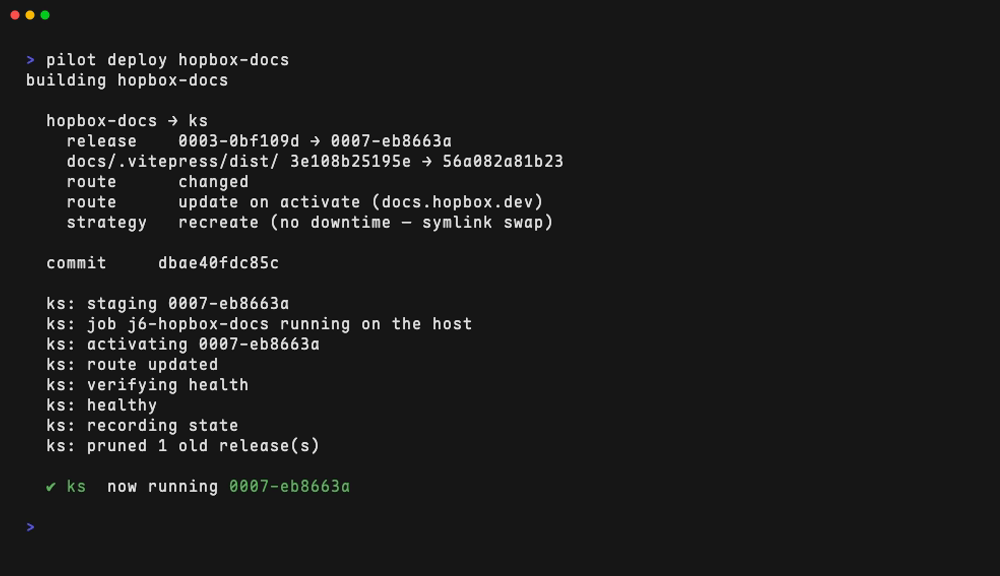
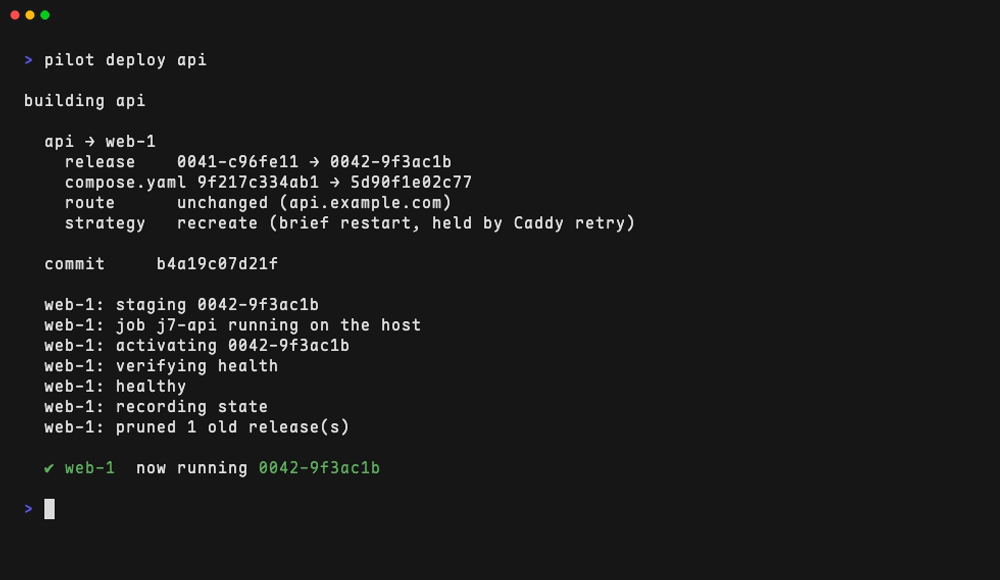
docs(readme): captures from the example fleet, not the operator's
The screenshots photographed the real fleet this project deploys
itself with — one operator's hostnames and domains on the project's
front page. They are now rendered by Pilot's own terminal renderer fed
with the example fleet's vocabulary: docs/readme/demo drives the same
render package the CLI uses, the module compiles it so a capture
cannot drift from the real output shapes, and the tapes alias `pilot`
to it so the typed commands read naturally. The live-TUI gif had no
equivalent without a live fleet and is dropped.

Also from review: a proper logo (Lucide's paper plane, ISC) above the
title, and the brew one-liner promoted into the header where it can be
seen.

diff --git a/docs/readme/demo/main.go b/docs/readme/demo/main.go
@@ -1,0 +1,127 @@
+// Command demo prints the README's terminal captures.
+//
+// The screenshots in the README used to be taken against the real fleet this
+// project deploys itself with, which put one operator's hostnames and domains
+// on the project's front page. This program renders the same output through
+// Pilot's actual terminal renderer — the render package the CLI itself uses —
+// fed with the example fleet's vocabulary, so a capture is pixel-faithful to
+// what Pilot prints without photographing anyone's infrastructure.
+//
+// The vhs tapes alongside alias `pilot` to `go run ./docs/readme/demo`, so the
+// typed command in each capture reads naturally. Being part of the module,
+// this breaks the build the moment a renderer's signature changes — a capture
+// can go stale, but it cannot quietly start lying about shapes.
+package main
+
+import (
+	"fmt"
+	"os"
+
+	"github.com/Gandalf-Le-Dev/pilot/internal/config"
+	"github.com/Gandalf-Le-Dev/pilot/internal/deploy"
+	"github.com/Gandalf-Le-Dev/pilot/internal/doctor"
+	"github.com/Gandalf-Le-Dev/pilot/internal/render"
+)
+
+func main() {
+	// Extra arguments are accepted and ignored so the tapes can type the
+	// command an operator would actually run — `pilot deploy api`.
+	if len(os.Args) < 2 {
+		fmt.Fprintln(os.Stderr, "usage: demo status|doctor|deploy [args ignored]")
+		os.Exit(2)
+	}
+
+	w := os.Stdout
+	fmt.Fprintln(w)
+
+	switch os.Args[1] {
+	case "status":
+		render.Status(w, statusRows())
+	case "doctor":
+		render.Doctor(w, doctorReport(), []string{"web-1", "web-2", "box-1"})
+	case "deploy":
+		printDeploy()
+	default:
+		fmt.Fprintf(os.Stderr, "unknown capture %q\n", os.Args[1])
+		os.Exit(2)
+	}
+
+	fmt.Fprintln(w)
+}
+
+func statusRows() []render.StatusRow {
+	return []render.StatusRow{
+		{Service: "api", Host: "web-1", State: "running", Release: "0042-9f3ac1b"},
+		{Service: "api", Host: "web-2", State: "running", Release: "0042-9f3ac1b"},
+		{Service: "backup", Host: "web-1", State: "running", Release: "0019-8eec9e0", Detail: "next Fri 00:23 UTC"},
+		{Service: "db", Host: "web-1", State: "running", Release: "0007-1fe22a1", Detail: "observe only"},
+		{Service: "objects", Host: "box-1", State: "running", Release: "0031-4c00e8d"},
+		{Service: "site", Host: "web-1", State: "running", Release: "0040-b52ffa1"},
+		{Service: "site", Host: "web-2", State: "running", Release: "0040-b52ffa1"},
+	}
+}
+
+func doctorReport() *doctor.Report {
+	ok := func(scope doctor.Scope, host, title, detail string) doctor.Finding {
+		return doctor.Finding{Status: doctor.StatusOK, Scope: scope, Host: host, Title: title, Detail: detail}
+	}
+	return &doctor.Report{Findings: []doctor.Finding{
+		ok(doctor.ScopeConfig, "", "fleet.yaml valid (3 hosts, 5 services)", ""),
+
+		ok(doctor.ScopeHost, "web-1", "docker available", ""),
+		ok(doctor.ScopeHost, "web-1", "agent 0.11.2 (protocol 8)", ""),
+		ok(doctor.ScopeHost, "web-1", "/etc/caddy/Caddyfile imports pilot.d/*.caddy", ""),
+		ok(doctor.ScopeHost, "web-1", "disk 34% used", ""),
+
+		ok(doctor.ScopeEdge, "", "api.example.com", "→ web-1, web-2  DNS ok  TLS valid 71d"),
+		ok(doctor.ScopeEdge, "", "example.com", "→ web-1, web-2  DNS ok  TLS valid 84d"),
+		{Status: doctor.StatusWarn, Scope: doctor.ScopeEdge, Title: "www.example.com",
+			Detail: "→ web-1, web-2  DNS ok  TLS valid 9d (renewal window)"},
+		ok(doctor.ScopeEdge, "", "objects.example.com", "→ box-1  DNS ok  TLS valid 89d"),
+	}}
+}
+
+func printDeploy() {
+	w := os.Stdout
+	svc := &config.Service{
+		Name:    "api",
+		Runtime: config.RuntimeCompose,
+		Hosts:   []string{"web-1"},
+		Expose:  &config.Expose{Domains: []string{"api.example.com"}, Upstream: 8080},
+	}
+	plan := &deploy.Plan{
+		Service: svc,
+		Release: "0042-9f3ac1b",
+		Commit:  "b4a19c07d21f",
+		Hosts: []deploy.HostPlan{{
+			Host: "web-1", From: "0041-c96fe11", To: "0042-9f3ac1b",
+			Route: deploy.RouteNone,
+			Changes: []deploy.Change{
+				{Field: "compose.yaml", From: "9f217c334ab1", To: "5d90f1e02c77"},
+			},
+		}},
+	}
+
+	fmt.Fprintln(w, "building api")
+	fmt.Fprintln(w)
+	render.Plan(w, plan)
+	fmt.Fprintln(w)
+
+	// The event stream a deploy prints while the host's agent works the job.
+	// Mirrored from the phases the agent reports; if the phrasing changes,
+	// re-run a real deploy and update these lines to match.
+	for _, line := range []string{
+		"staging 0042-9f3ac1b",
+		"job j7-api running on the host",
+		"activating 0042-9f3ac1b",
+		"verifying health",
+		"healthy",
+		"recording state",
+		"pruned 1 old release(s)",
+	} {
+		fmt.Fprintf(w, "  web-1: %s\n", line)
+	}
+	fmt.Fprintln(w)
+
+	render.Outcomes(w, []deploy.Outcome{{Host: "web-1", Succeeded: true, Release: "0042-9f3ac1b"}})
+}

diff --git a/README.md b/README.md
@@ -1,5 +1,7 @@
 <div align="center">
 
+<img src="docs/readme/logo.svg" width="88" alt="">
+
 # Pilot
 
 **A single-operator control plane for a small fleet of servers.**
@@ -11,17 +13,15 @@ systemd units, and static sites — with Caddy as the front door.
 [![CI](https://github.com/Gandalf-Le-Dev/pilot/actions/workflows/ci.yml/badge.svg)](https://github.com/Gandalf-Le-Dev/pilot/actions/workflows/ci.yml)
 [![License](https://img.shields.io/github/license/Gandalf-Le-Dev/pilot?color=8a8f98)](LICENSE)
 
-<img src="docs/readme/deploy.png" alt="pilot deploy: staging, activating, route update, health verification, and the release going live" width="760">
+### `brew install Gandalf-Le-Dev/tap/pilot`
+
+<img src="docs/readme/deploy.png" alt="pilot deploy: the plan, staging, activation, route update, health verification, and the release going live" width="760">
 
 </div>
 
 Pilot is a CLI (`pilot`) plus a per-host agent (`pilotd`). Deploys are pushed
 over SSH; the agent owns everything after the commit point, so closing your
 laptop mid-deploy cannot leave a service activated with nobody to roll it back.
-
-```
-brew install Gandalf-Le-Dev/tap/pilot
-```
 
 ## The idea
 
@@ -133,10 +133,6 @@ pilot upgrade              replace this binary with the latest release
 
 Selectors work where they make sense: `pilot deploy @web` deploys every service
 on hosts tagged `web`, and `pilot status api` narrows to one service.
-
-<p align="center">
-<img src="docs/readme/top.gif" alt="pilot top: a live fleet view that refreshes in place" width="760">
-</p>
 
 ## Routing
 
@@ -424,6 +420,8 @@ The agent targets Linux; the CLI runs wherever Go does.
 
 ---
 
-<sub>The screenshots above are real output from the fleet this project deploys
-itself with — captured with [vhs](https://github.com/charmbracelet/vhs), tapes
-in [docs/readme/](docs/readme/).</sub>
+<sub>The captures above are rendered by Pilot's own terminal renderer, fed
+with the example fleet's vocabulary — see [docs/readme/demo](docs/readme/demo),
+which the build compiles so the captures cannot drift from the real output
+code. Regenerate them with [vhs](https://github.com/charmbracelet/vhs) from the
+tapes in [docs/readme/](docs/readme/).</sub>
